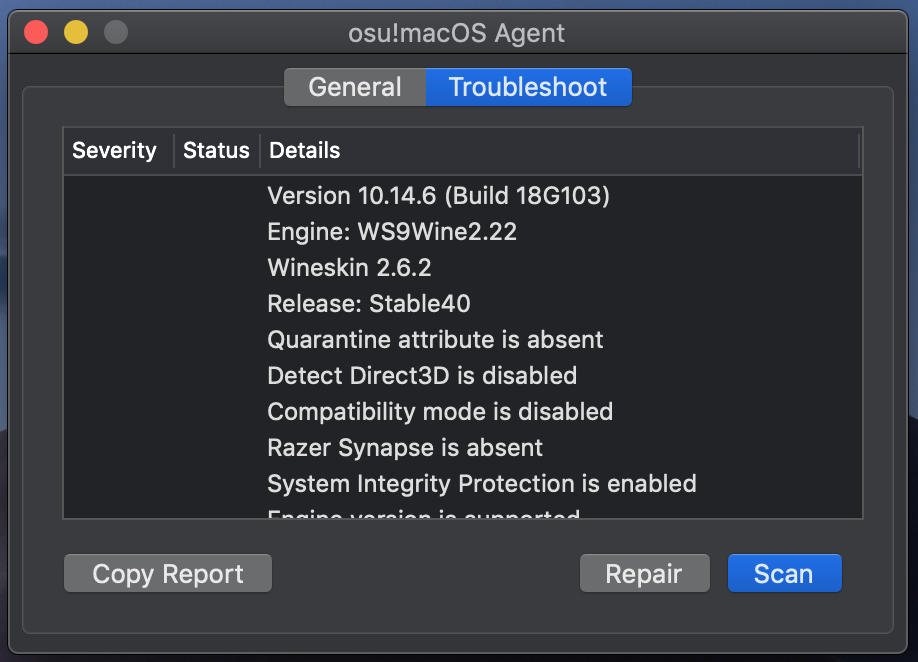
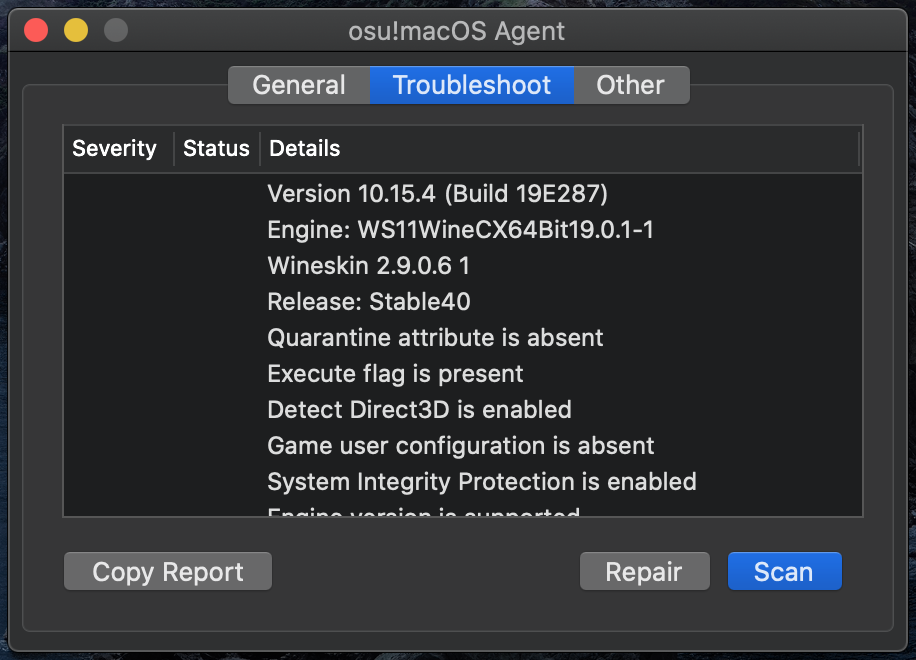
Fix integrity and Direct3D check for new system versions

diff --git a/osu.macOS.Agent/Passes/IntegrityProtection.cs b/osu.macOS.Agent/Passes/IntegrityProtection.cs
@@ -1,8 +1,11 @@
+using Foundation;
+
 namespace osu.macOS.Agent.Passes
 {
 	public class IntegrityProtection : IPass
 	{
 		private const string Command = "csrutil status";
+		private static readonly NSOperatingSystemVersion CatalinaTable = new NSOperatingSystemVersion(10, 15, 4);
 
 		public Entry Apply(Instance instance)
 		{
@@ -10,8 +13,9 @@ namespace osu.macOS.Agent.Passes
 			if (!enabled) return new Entry("System Integrity Protection is disabled");
 
 			var details = "System Integrity Protection is enabled";
-			if (!Instance.RequiresLongArchitecture()) return new Entry(details);
-			details += " and must be disabled for 64 bit Wine engines";
+			var table = NSProcessInfo.ProcessInfo.IsOperatingSystemAtLeastVersion(CatalinaTable);
+			if (!Instance.RequiresLongArchitecture() || table) return new Entry(details);
+			details += " and must be disabled for 64 bit Wine engines prior to macOS 10.15.4";
 			return new Entry(details, Severity.Error);
 		}
 

diff --git a/osu.macOS.Agent/Passes/DetectDirect3D.cs b/osu.macOS.Agent/Passes/DetectDirect3D.cs
@@ -12,10 +12,8 @@ namespace osu.macOS.Agent.Passes
 			var enabled = (bool) (NSNumber) instance.configuration[TargetKey];
 			if (!enabled) return new Entry("Detect Direct3D is disabled");
 
-			var severity = NSProcessInfo.ProcessInfo
-				.IsOperatingSystemAtLeastVersion(HighSierra)
-				? Severity.Error
-				: Severity.Warning;
+			var sierra = NSProcessInfo.ProcessInfo.IsOperatingSystemAtLeastVersion(HighSierra);
+			var severity = sierra && !Instance.RequiresLongArchitecture() ? Severity.Error : Severity.None;
 			return new Entry("Detect Direct3D is enabled", severity);
 		}
 

diff --git a/osu.macOS.Agent/Passes/LongEngine.cs b/osu.macOS.Agent/Passes/LongEngine.cs
@@ -10,7 +10,8 @@ namespace osu.macOS.Agent.Passes
 		{
 			var suffix = instance.EngineVersion().Substring(2);
 			var version = int.Parse(new string(suffix.TakeWhile(char.IsDigit).ToArray()));
-			if (!Instance.RequiresLongArchitecture() || version > 10) return new Entry("Engine version is supported");
+			if (!Instance.RequiresLongArchitecture() || version > 10)
+				return new Entry("Engine version is supported");
 			return new Entry(Error, Severity.Error);
 		}
 
